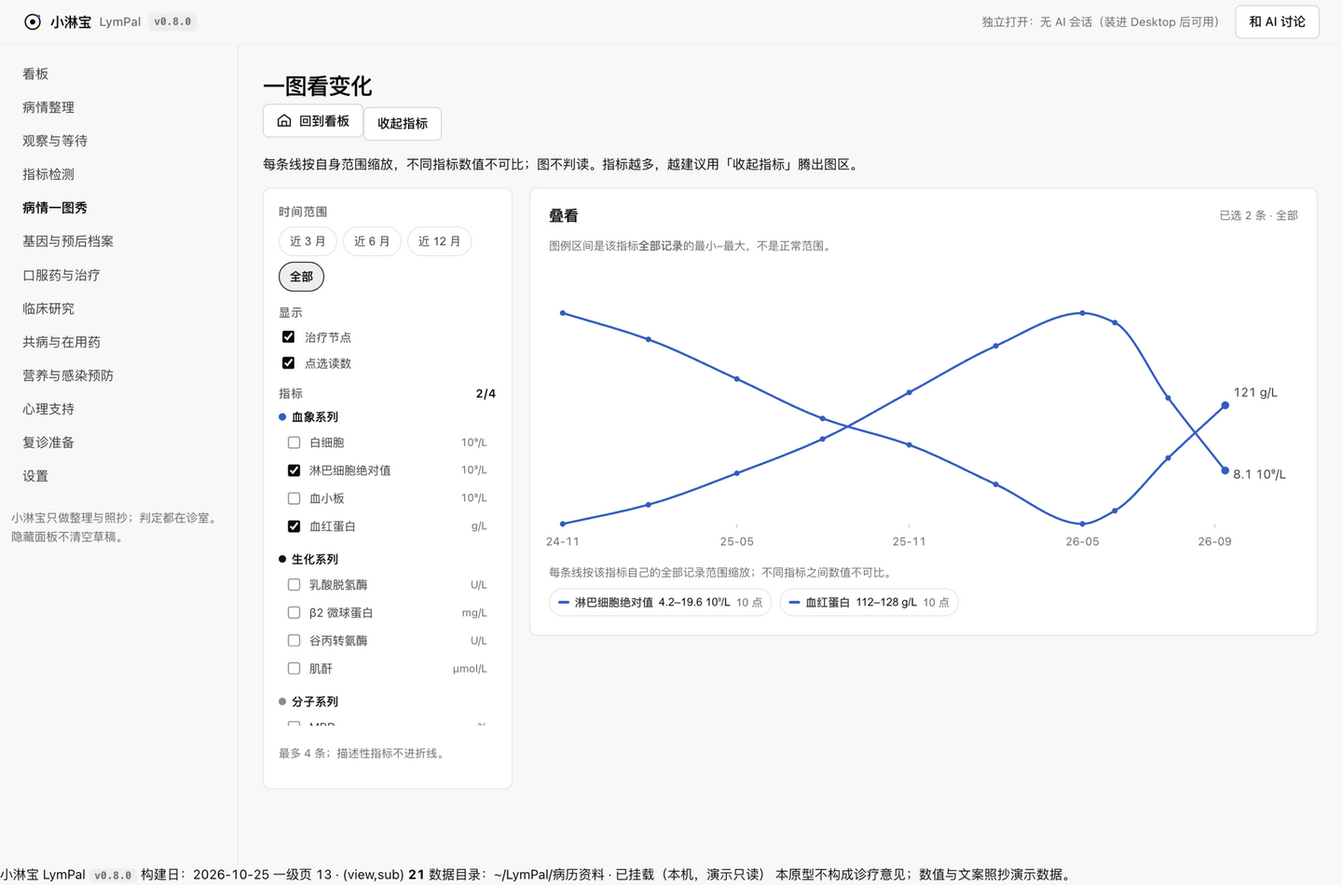
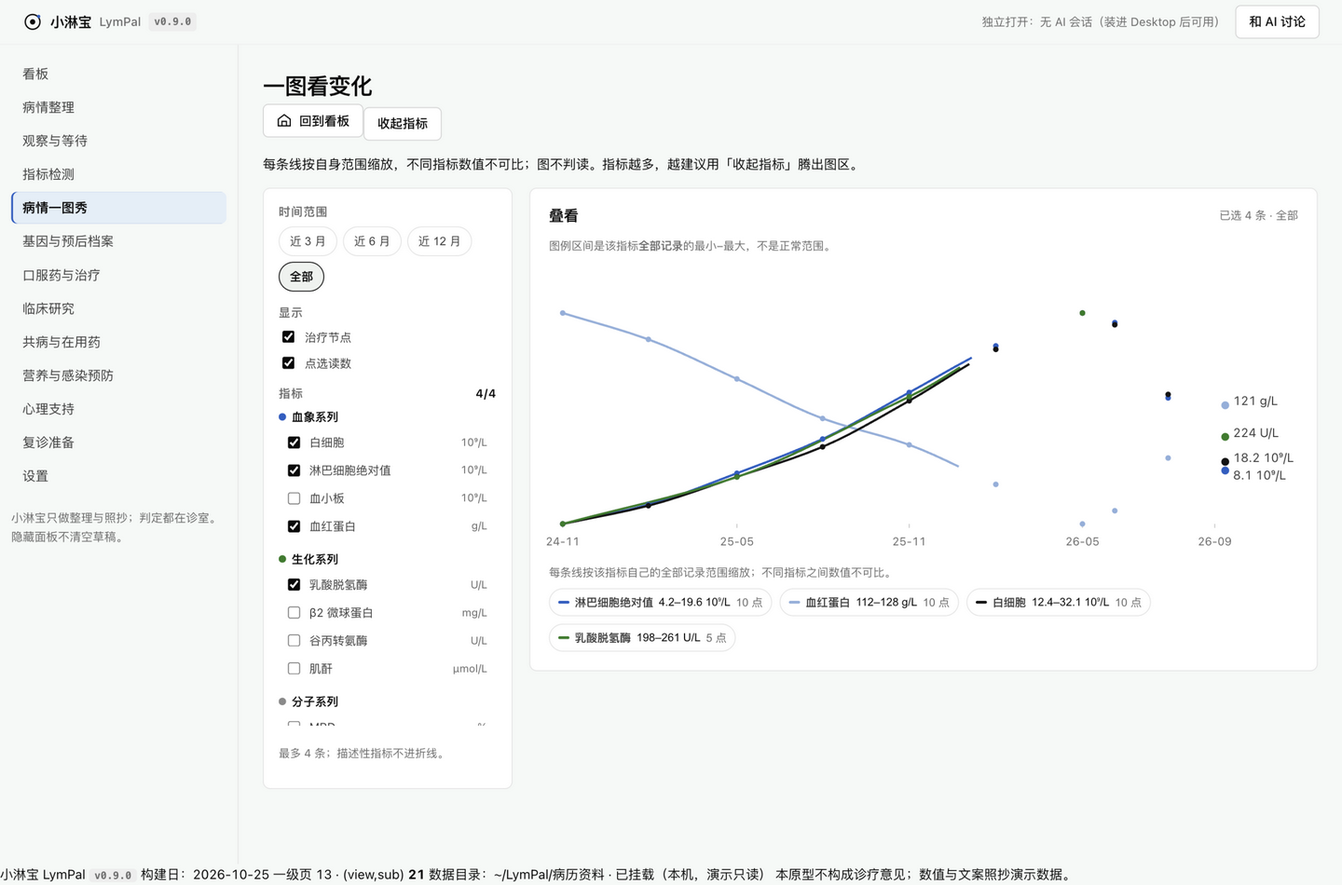
feat(ui): v0.9.1 — 双色预算（浅蓝+浅绿）+ 指标级固定色 + 末点标签避让
- 蓝=数据/选中（ground #f5f9f7、激活浅蓝 pill+2px 蓝条），绿=状态/第二序列（正向药丸浅绿）
- 修：同图两线同色（ALC/Hb 都深蓝）→ 指标级固定色，同族深浅区分，跨页一致
- 修：末点标签重叠 → 18px 最小垂直避让（实测 146/178/203/221）
- 44/44 测试 · check 全绿 · audit 37/37

diff --git a/public/app.js b/public/app.js
@@ -3,7 +3,7 @@
    红线：不判读、不建议、不代发；删除=改这一条；AI 示例只填输入框（cll:agent-draft 协议）。 */
 (function () {
   'use strict';
-  var APP_INFO = { version: '0.9.0' };
+  var APP_INFO = { version: '0.9.1' };
   var D = window.LYMPAL_DEMO;
 
   function loadProfile() {
@@ -103,15 +103,16 @@
   function cbcAll() { return D.cbc.concat(state.extra.cbc).sort(function (a, b) { return a.d < b.d ? -1 : 1; }); }
   function metrics() { /* 与一图秀共用同一目录（23 号 A：单一来源） */
     var c = cbcAll(), b = D.biochem;
+    /* 每指标固定色：蓝族（血象）与绿族（生化）内用深浅区分；同一指标在任何页同一色 */
     return [
-      { code: 'wbc', series: '血象', name: '白细胞', unit: '10⁹/L', pts: c.map(function (r) { return { d: r.d, v: r.wbc, lab: r.lab }; }) },
-      { code: 'alc', series: '血象', name: '淋巴细胞绝对值（ALC）', unit: '10⁹/L', pts: c.map(function (r) { return { d: r.d, v: r.alc, lab: r.lab }; }) },
-      { code: 'plt', series: '血象', name: '血小板', unit: '10⁹/L', pts: c.map(function (r) { return { d: r.d, v: r.plt, lab: r.lab }; }) },
-      { code: 'hgb', series: '血象', name: '血红蛋白', unit: 'g/L', pts: c.map(function (r) { return { d: r.d, v: r.hgb, lab: r.lab }; }) },
-      { code: 'ldh', series: '生化', name: '乳酸脱氢酶（LDH）', unit: 'U/L', pts: b.map(function (r) { return { d: r.d, v: r.ldh, lab: r.lab }; }) },
-      { code: 'b2m', series: '生化', name: 'β2 微球蛋白', unit: 'mg/L', pts: b.map(function (r) { return { d: r.d, v: r.b2m, lab: r.lab }; }) },
-      { code: 'alt', series: '生化', name: '谷丙转氨酶（ALT）', unit: 'U/L', pts: b.map(function (r) { return { d: r.d, v: r.alt, lab: r.lab }; }) },
-      { code: 'crea', series: '生化', name: '肌酐', unit: 'μmol/L', pts: b.map(function (r) { return { d: r.d, v: r.crea, lab: r.lab }; }) },
+      { code: 'wbc', series: '血象', color: '#141414', name: '白细胞', unit: '10⁹/L', pts: c.map(function (r) { return { d: r.d, v: r.wbc, lab: r.lab }; }) },
+      { code: 'alc', series: '血象', color: '#1d5fbf', name: '淋巴细胞绝对值（ALC）', unit: '10⁹/L', pts: c.map(function (r) { return { d: r.d, v: r.alc, lab: r.lab }; }) },
+      { code: 'plt', series: '血象', color: '#5b8ac4', name: '血小板', unit: '10⁹/L', pts: c.map(function (r) { return { d: r.d, v: r.plt, lab: r.lab }; }) },
+      { code: 'hgb', series: '血象', color: '#8fb0d9', name: '血红蛋白', unit: 'g/L', pts: c.map(function (r) { return { d: r.d, v: r.hgb, lab: r.lab }; }) },
+      { code: 'ldh', series: '生化', color: '#2e7d32', name: '乳酸脱氢酶（LDH）', unit: 'U/L', pts: b.map(function (r) { return { d: r.d, v: r.ldh, lab: r.lab }; }) },
+      { code: 'b2m', series: '生化', color: '#5da068', name: 'β2 微球蛋白', unit: 'mg/L', pts: b.map(function (r) { return { d: r.d, v: r.b2m, lab: r.lab }; }) },
+      { code: 'alt', series: '生化', color: '#8fbc97', name: '谷丙转氨酶（ALT）', unit: 'U/L', pts: b.map(function (r) { return { d: r.d, v: r.alt, lab: r.lab }; }) },
+      { code: 'crea', series: '生化', color: '#b5cfc0', name: '肌酐', unit: 'μmol/L', pts: b.map(function (r) { return { d: r.d, v: r.crea, lab: r.lab }; }) },
       { code: 'mrd', series: '分子', name: 'MRD（流式）', unit: '%', pts: D.mrdSeries.map(function (m) { return { d: m.d, v: m.v, lab: m.lab }; }) },
       { code: 'exam', series: '体格', name: '淋巴结与脾脏评估', unit: '', qual: true, pts: D.exam.map(function (r) { return { d: r.d, v: null, text: r.text, lab: r.lab }; }) }
     ];
@@ -174,8 +175,10 @@
   var CHART_W = 760, CHART_H = 300, PAD = { l: 14, r: 74, t: 26, b: 34 };
   /* achromatic-ledger：全屏只有一个彩色，给"主数据元素"。血象是本病种的主线 → 取 #1d5fbf；
      其余序列用墨色与灰阶（不引入第二、第三个色相）。 */
-  var SERIES_COLORS = { '血象': '#1d5fbf', '生化': '#141414', '分子': '#8a8a8a', '体格': '#6b6b6b' };
-  var SERIES_SOFT = { '血象': '#f4f7fc', '生化': '#f5f5f5', '分子': '#f7f7f7', '体格': '#f7f7f7' };
+  /* 双色预算：蓝=血象（主），绿=生化（次）；分子/体格保持灰阶。
+     屏幕上永远只有蓝绿两族彩色，其余中性。 */
+  var SERIES_COLORS = { '血象': '#1d5fbf', '生化': '#2e7d32', '分子': '#8a8a8a', '体格': '#6b6b6b' };
+  var SERIES_SOFT = { '血象': '#e6f0fa', '生化': '#e6f4ec', '分子': '#f7f7f7', '体格': '#f7f7f7' };
 
   function timeRange(range, anchorD) {
     var months = { '3m': 3, '6m': 6, '12m': 12 }[range] || 0;
@@ -209,7 +212,7 @@
       return PAD.l + (days(t0, d) / span) * (CHART_W - PAD.l - PAD.r);
     };
     var picked = codes.map(metricByCode).filter(Boolean);
-    var drawn = [], msgs = [], paths = [], dots = '', labels = '';
+    var drawn = [], msgs = [], paths = [], dots = '', labels = '', endLabels = [];
     var plotTop = PAD.t + (showTx ? 26 : 6), plotBottom = CHART_H - PAD.b, plotH = plotBottom - plotTop;
 
     picked.forEach(function (m, si) {
@@ -219,7 +222,7 @@
       var pts = m.pts.filter(function (p) { return typeof p.v === 'number' && p.d >= t0 && p.d <= t1; });
       if (!pts.length) { msgs.push(esc(mShort(m)) + '：这个时间窗里没有记录'); return; }
       var y = function (v) { return plotTop + (1 - (v - scale.lo) / scale.span) * plotH; };
-      var col = SERIES_COLORS[m.series] || '#2f5fa8';
+      var col = m.color || SERIES_COLORS[m.series] || '#1d5fbf';
       var xy = pts.map(function (p) { return [x(p.d), y(p.v)]; });
       if (xy.length > 1) paths.push({ code: m.code, d: smoothPath(xy), col: col });
       pts.forEach(function (p, i) {
@@ -231,12 +234,25 @@
           esc(mShort(m)) + '：' + p.v + ' ' + esc(m.unit) + ' · ' + p.d + '</title></circle>';
         if (isLast && xy.length > 1) {
           var lx = x(p.d), anchor = (CHART_W - lx) < 60 ? 'end' : 'start';
-          labels += '<text class="lbl" x="' + r2(lx + (anchor === 'end' ? -8 : 8)) + '" y="' + r2(y(p.v) + (si % 2 ? -12 : 8) + si * 3) +
-            '" text-anchor="' + anchor + '" fill="' + col + '">' + p.v + ' ' + esc(m.unit) + '</text>';
+          endLabels.push({ lx: lx, y: y(p.v), anchor: anchor, col: col,
+            text: p.v + ' ' + (m.unit || '') });
         }
       });
       drawn.push({ m: m, lo: scale.lo, hi: scale.hi, n: pts.length, col: col });
     });
+
+    /* 末点标签：按 y 排序后做最小 18px 垂直避让（多条线收在同一侧时不叠） */
+    endLabels.sort(function (a, b) { return a.y - b.y; });
+    var lastY = -Infinity;
+    endLabels.forEach(function (L, i) {
+      var yy = Math.max(L.y, lastY + 18);
+      if (i > 0 && yy === L.y) yy = L.y;
+      lastY = yy; L.yy = yy;
+    });
+    labels = endLabels.map(function (L) {
+      return '<text class="lbl" x="' + r2(L.lx + (L.anchor === 'end' ? -8 : 8)) + '" y="' + r2(L.yy) +
+        '" text-anchor="' + L.anchor + '" fill="' + L.col + '">' + esc(L.text) + '</text>';
+    }).join('');
 
     /* 治疗条：绘图区上方独立泳道（关掉后数据坐标不变） */
     var tx = '';
@@ -304,6 +320,12 @@
   function mShort(m) { return m.name.replace(/（.*?）/g, ''); }
 
   /* ================= 指标卡（固定尺寸原位翻转；正面=色点+当前值+较前次箭头+记录数；背面=sparkline 带端值日期） ================= */
+  function mixSoft(hex) {
+    var m = /^#?([0-9a-f]{6})$/i.exec(hex || '');
+    if (!m) return '#f2f4f8';
+    var n = parseInt(m[1], 16), r = (n >> 16) & 255, g = (n >> 8) & 255, b = n & 255;
+    return 'rgba(' + r + ',' + g + ',' + b + ',0.08)';
+  }
   function deltaOf(m) {
     if (m.qual) return null;
     var pts = m.pts.filter(function (p) { return typeof p.v === 'number'; });
@@ -338,8 +360,8 @@
     var nums = m.pts.filter(function (p) { return typeof p.v === 'number'; });
     var latest = nums[nums.length - 1] || null;
     var dl = deltaOf(m);
-    var col = SERIES_COLORS[m.series] || '#2f5fa8';
-    var soft = SERIES_SOFT[m.series] || '#f2f4f8';
+    var col = m.color || SERIES_COLORS[m.series] || '#1d5fbf';
+    var soft = m.color ? mixSoft(m.color) : (SERIES_SOFT[m.series] || '#f2f4f8');
 
     var arrow = '';
     if (m.qual) arrow = '<span class="mdelta flat">描述性，不进折线</span>';

diff --git a/prototypes/v0.1/app.js b/prototypes/v0.1/app.js
@@ -78,15 +78,16 @@
   function cbcAll() { return D.cbc.concat(state.extra.cbc).sort(function (a, b) { return a.d < b.d ? -1 : 1; }); }
   function metrics() { /* 与一图秀共用同一目录（23 号 A：单一来源） */
     var c = cbcAll(), b = D.biochem;
+    /* 每指标固定色：蓝族（血象）与绿族（生化）内用深浅区分；同一指标在任何页同一色 */
     return [
-      { code: 'wbc', series: '血象', name: '白细胞', unit: '10⁹/L', pts: c.map(function (r) { return { d: r.d, v: r.wbc, lab: r.lab }; }) },
-      { code: 'alc', series: '血象', name: '淋巴细胞绝对值（ALC）', unit: '10⁹/L', pts: c.map(function (r) { return { d: r.d, v: r.alc, lab: r.lab }; }) },
-      { code: 'plt', series: '血象', name: '血小板', unit: '10⁹/L', pts: c.map(function (r) { return { d: r.d, v: r.plt, lab: r.lab }; }) },
-      { code: 'hgb', series: '血象', name: '血红蛋白', unit: 'g/L', pts: c.map(function (r) { return { d: r.d, v: r.hgb, lab: r.lab }; }) },
-      { code: 'ldh', series: '生化', name: '乳酸脱氢酶（LDH）', unit: 'U/L', pts: b.map(function (r) { return { d: r.d, v: r.ldh, lab: r.lab }; }) },
-      { code: 'b2m', series: '生化', name: 'β2 微球蛋白', unit: 'mg/L', pts: b.map(function (r) { return { d: r.d, v: r.b2m, lab: r.lab }; }) },
-      { code: 'alt', series: '生化', name: '谷丙转氨酶（ALT）', unit: 'U/L', pts: b.map(function (r) { return { d: r.d, v: r.alt, lab: r.lab }; }) },
-      { code: 'crea', series: '生化', name: '肌酐', unit: 'μmol/L', pts: b.map(function (r) { return { d: r.d, v: r.crea, lab: r.lab }; }) },
+      { code: 'wbc', series: '血象', color: '#141414', name: '白细胞', unit: '10⁹/L', pts: c.map(function (r) { return { d: r.d, v: r.wbc, lab: r.lab }; }) },
+      { code: 'alc', series: '血象', color: '#1d5fbf', name: '淋巴细胞绝对值（ALC）', unit: '10⁹/L', pts: c.map(function (r) { return { d: r.d, v: r.alc, lab: r.lab }; }) },
+      { code: 'plt', series: '血象', color: '#5b8ac4', name: '血小板', unit: '10⁹/L', pts: c.map(function (r) { return { d: r.d, v: r.plt, lab: r.lab }; }) },
+      { code: 'hgb', series: '血象', color: '#8fb0d9', name: '血红蛋白', unit: 'g/L', pts: c.map(function (r) { return { d: r.d, v: r.hgb, lab: r.lab }; }) },
+      { code: 'ldh', series: '生化', color: '#2e7d32', name: '乳酸脱氢酶（LDH）', unit: 'U/L', pts: b.map(function (r) { return { d: r.d, v: r.ldh, lab: r.lab }; }) },
+      { code: 'b2m', series: '生化', color: '#5da068', name: 'β2 微球蛋白', unit: 'mg/L', pts: b.map(function (r) { return { d: r.d, v: r.b2m, lab: r.lab }; }) },
+      { code: 'alt', series: '生化', color: '#8fbc97', name: '谷丙转氨酶（ALT）', unit: 'U/L', pts: b.map(function (r) { return { d: r.d, v: r.alt, lab: r.lab }; }) },
+      { code: 'crea', series: '生化', color: '#b5cfc0', name: '肌酐', unit: 'μmol/L', pts: b.map(function (r) { return { d: r.d, v: r.crea, lab: r.lab }; }) },
       { code: 'mrd', series: '分子', name: 'MRD（流式）', unit: '%', pts: D.mrdSeries.map(function (m) { return { d: m.d, v: m.v, lab: m.lab }; }) },
       { code: 'exam', series: '体格', name: '淋巴结与脾脏评估', unit: '', qual: true, pts: D.exam.map(function (r) { return { d: r.d, v: null, text: r.text, lab: r.lab }; }) }
     ];
@@ -149,8 +150,10 @@
   var CHART_W = 760, CHART_H = 300, PAD = { l: 14, r: 74, t: 26, b: 34 };
   /* achromatic-ledger：全屏只有一个彩色，给"主数据元素"。血象是本病种的主线 → 取 #1d5fbf；
      其余序列用墨色与灰阶（不引入第二、第三个色相）。 */
-  var SERIES_COLORS = { '血象': '#1d5fbf', '生化': '#141414', '分子': '#8a8a8a', '体格': '#6b6b6b' };
-  var SERIES_SOFT = { '血象': '#f4f7fc', '生化': '#f5f5f5', '分子': '#f7f7f7', '体格': '#f7f7f7' };
+  /* 双色预算：蓝=血象（主），绿=生化（次）；分子/体格保持灰阶。
+     屏幕上永远只有蓝绿两族彩色，其余中性。 */
+  var SERIES_COLORS = { '血象': '#1d5fbf', '生化': '#2e7d32', '分子': '#8a8a8a', '体格': '#6b6b6b' };
+  var SERIES_SOFT = { '血象': '#e6f0fa', '生化': '#e6f4ec', '分子': '#f7f7f7', '体格': '#f7f7f7' };
 
   function timeRange(range, anchorD) {
     var months = { '3m': 3, '6m': 6, '12m': 12 }[range] || 0;
@@ -184,7 +187,7 @@
       return PAD.l + (days(t0, d) / span) * (CHART_W - PAD.l - PAD.r);
     };
     var picked = codes.map(metricByCode).filter(Boolean);
-    var drawn = [], msgs = [], paths = [], dots = '', labels = '';
+    var drawn = [], msgs = [], paths = [], dots = '', labels = '', endLabels = [];
     var plotTop = PAD.t + (showTx ? 26 : 6), plotBottom = CHART_H - PAD.b, plotH = plotBottom - plotTop;
 
     picked.forEach(function (m, si) {
@@ -194,7 +197,7 @@
       var pts = m.pts.filter(function (p) { return typeof p.v === 'number' && p.d >= t0 && p.d <= t1; });
       if (!pts.length) { msgs.push(esc(mShort(m)) + '：这个时间窗里没有记录'); return; }
       var y = function (v) { return plotTop + (1 - (v - scale.lo) / scale.span) * plotH; };
-      var col = SERIES_COLORS[m.series] || '#2f5fa8';
+      var col = m.color || SERIES_COLORS[m.series] || '#1d5fbf';
       var xy = pts.map(function (p) { return [x(p.d), y(p.v)]; });
       if (xy.length > 1) paths.push({ code: m.code, d: smoothPath(xy), col: col });
       pts.forEach(function (p, i) {
@@ -206,12 +209,25 @@
           esc(mShort(m)) + '：' + p.v + ' ' + esc(m.unit) + ' · ' + p.d + '</title></circle>';
         if (isLast && xy.length > 1) {
           var lx = x(p.d), anchor = (CHART_W - lx) < 60 ? 'end' : 'start';
-          labels += '<text class="lbl" x="' + r2(lx + (anchor === 'end' ? -8 : 8)) + '" y="' + r2(y(p.v) + (si % 2 ? -12 : 8) + si * 3) +
-            '" text-anchor="' + anchor + '" fill="' + col + '">' + p.v + ' ' + esc(m.unit) + '</text>';
+          endLabels.push({ lx: lx, y: y(p.v), anchor: anchor, col: col,
+            text: p.v + ' ' + (m.unit || '') });
         }
       });
       drawn.push({ m: m, lo: scale.lo, hi: scale.hi, n: pts.length, col: col });
     });
+
+    /* 末点标签：按 y 排序后做最小 18px 垂直避让（多条线收在同一侧时不叠） */
+    endLabels.sort(function (a, b) { return a.y - b.y; });
+    var lastY = -Infinity;
+    endLabels.forEach(function (L, i) {
+      var yy = Math.max(L.y, lastY + 18);
+      if (i > 0 && yy === L.y) yy = L.y;
+      lastY = yy; L.yy = yy;
+    });
+    labels = endLabels.map(function (L) {
+      return '<text class="lbl" x="' + r2(L.lx + (L.anchor === 'end' ? -8 : 8)) + '" y="' + r2(L.yy) +
+        '" text-anchor="' + L.anchor + '" fill="' + L.col + '">' + esc(L.text) + '</text>';
+    }).join('');
 
     /* 治疗条：绘图区上方独立泳道（关掉后数据坐标不变） */
     var tx = '';
@@ -279,6 +295,12 @@
   function mShort(m) { return m.name.replace(/（.*?）/g, ''); }
 
   /* ================= 指标卡（固定尺寸原位翻转；正面=色点+当前值+较前次箭头+记录数；背面=sparkline 带端值日期） ================= */
+  function mixSoft(hex) {
+    var m = /^#?([0-9a-f]{6})$/i.exec(hex || '');
+    if (!m) return '#f2f4f8';
+    var n = parseInt(m[1], 16), r = (n >> 16) & 255, g = (n >> 8) & 255, b = n & 255;
+    return 'rgba(' + r + ',' + g + ',' + b + ',0.08)';
+  }
   function deltaOf(m) {
     if (m.qual) return null;
     var pts = m.pts.filter(function (p) { return typeof p.v === 'number'; });
@@ -313,8 +335,8 @@
     var nums = m.pts.filter(function (p) { return typeof p.v === 'number'; });
     var latest = nums[nums.length - 1] || null;
     var dl = deltaOf(m);
-    var col = SERIES_COLORS[m.series] || '#2f5fa8';
-    var soft = SERIES_SOFT[m.series] || '#f2f4f8';
+    var col = m.color || SERIES_COLORS[m.series] || '#1d5fbf';
+    var soft = m.color ? mixSoft(m.color) : (SERIES_SOFT[m.series] || '#f2f4f8');
 
     var arrow = '';
     if (m.qual) arrow = '<span class="mdelta flat">描述性，不进折线</span>';

diff --git a/prototypes/v0.1/style.css b/prototypes/v0.1/style.css
@@ -8,14 +8,19 @@
      规则：chrome 不含任何彩色；唯一的图表色 #1d5fbf 只给"主数据元素"；其余用墨色与灰阶。
      彩色像素目标 <1%。字体：系统 SF Pro（离线可用；本机无 Geist，且病历应用不依赖网络字体），
      数字用 SF Mono + tabular-nums，让化验值成列对齐（该样式的"账本"取向）。 */
-  --ground:#f8f8f8; --surface:#ffffff; --raised:#eeeeee; --active:#eeeeee;
+  /* 双色预算（用户 2026-10-26 指定浅绿+浅蓝）：
+     蓝 = 数据与选中；绿 = 状态（符合/正常）。底色带一丝蓝绿的白，卡面仍纯白。
+     除这两族外仍保持中性，避免回到彩虹图表。 */
+  --ground:#f5f9f7; --surface:#ffffff; --raised:#eef2ef; --active:#e3eef7;
   --border:#e6e6e6; --rule:#f0f0f0; --control:#d4d4d4;
   --text:#0a0a0a; --muted:#6b6b6b; --faint:#8a8a8a;
   --accent:#141414;                 /* chrome 的"强调"= 墨色本身 */
-  --chart-hue:#1d5fbf;              /* 唯一图表色：主数据线 */
+  --chart-hue:#1d5fbf;              /* 蓝：主数据线（血象） */
+  --hue-green:#2e7d32;              /* 绿：第二序列（生化）与正向状态 */
   --chart-ink:#141414; --chart-grey:#8a8a8a;
+  --soft-blue:#e6f0fa; --soft-green:#e6f4ec;
   --positive:#2e7d32; --negative:#c4242a; --warning:#92400e;
-  --pill-positive-bg:#dcfae5; --pill-positive-ink:#04250e;
+  --pill-positive-bg:#e6f4ec; --pill-positive-ink:#1c5c34;
   --pill-negative-bg:#ffedea; --pill-negative-ink:#831c1e;
   --pill-warning-bg:#fffbeb; --pill-warning-ink:#92400e; --pill-warning-border:#fde68a;
   --pill-neutral-bg:#eeeeee; --pill-neutral-ink:#3d3d3d;
@@ -98,7 +103,7 @@ h1{font-size:var(--fs-title); font-weight:700; letter-spacing:-.02em; line-heigh
 }
 .sidebar a:hover{background:#f0f1f2}
 /* 导航退到后面：激活项只用中性灰 pill，不用品牌色和左侧色条 */
-.sidebar a[aria-current="page"]{color:var(--ink); font-weight:600; background:var(--active)}
+.sidebar a[aria-current="page"]{color:var(--ink); font-weight:600; background:var(--active); box-shadow:inset 2px 0 0 var(--chart-hue)}
 .nav-note{margin-top:auto; padding-top:18px; font-size:12.5px; color:var(--muted)}
 .main-col{min-width:0; display:flex}
 #view{max-width:1180px; width:100%; margin:0 auto; padding:var(--pad) var(--pad) 48px; outline:none}

diff --git a/public/style.css b/public/style.css
@@ -8,14 +8,19 @@
      规则：chrome 不含任何彩色；唯一的图表色 #1d5fbf 只给"主数据元素"；其余用墨色与灰阶。
      彩色像素目标 <1%。字体：系统 SF Pro（离线可用；本机无 Geist，且病历应用不依赖网络字体），
      数字用 SF Mono + tabular-nums，让化验值成列对齐（该样式的"账本"取向）。 */
-  --ground:#f8f8f8; --surface:#ffffff; --raised:#eeeeee; --active:#eeeeee;
+  /* 双色预算（用户 2026-10-26 指定浅绿+浅蓝）：
+     蓝 = 数据与选中；绿 = 状态（符合/正常）。底色带一丝蓝绿的白，卡面仍纯白。
+     除这两族外仍保持中性，避免回到彩虹图表。 */
+  --ground:#f5f9f7; --surface:#ffffff; --raised:#eef2ef; --active:#e3eef7;
   --border:#e6e6e6; --rule:#f0f0f0; --control:#d4d4d4;
   --text:#0a0a0a; --muted:#6b6b6b; --faint:#8a8a8a;
   --accent:#141414;                 /* chrome 的"强调"= 墨色本身 */
-  --chart-hue:#1d5fbf;              /* 唯一图表色：主数据线 */
+  --chart-hue:#1d5fbf;              /* 蓝：主数据线（血象） */
+  --hue-green:#2e7d32;              /* 绿：第二序列（生化）与正向状态 */
   --chart-ink:#141414; --chart-grey:#8a8a8a;
+  --soft-blue:#e6f0fa; --soft-green:#e6f4ec;
   --positive:#2e7d32; --negative:#c4242a; --warning:#92400e;
-  --pill-positive-bg:#dcfae5; --pill-positive-ink:#04250e;
+  --pill-positive-bg:#e6f4ec; --pill-positive-ink:#1c5c34;
   --pill-negative-bg:#ffedea; --pill-negative-ink:#831c1e;
   --pill-warning-bg:#fffbeb; --pill-warning-ink:#92400e; --pill-warning-border:#fde68a;
   --pill-neutral-bg:#eeeeee; --pill-neutral-ink:#3d3d3d;
@@ -98,7 +103,7 @@ h1{font-size:var(--fs-title); font-weight:700; letter-spacing:-.02em; line-heigh
 }
 .sidebar a:hover{background:#f0f1f2}
 /* 导航退到后面：激活项只用中性灰 pill，不用品牌色和左侧色条 */
-.sidebar a[aria-current="page"]{color:var(--ink); font-weight:600; background:var(--active)}
+.sidebar a[aria-current="page"]{color:var(--ink); font-weight:600; background:var(--active); box-shadow:inset 2px 0 0 var(--chart-hue)}
 .nav-note{margin-top:auto; padding-top:18px; font-size:12.5px; color:var(--muted)}
 .main-col{min-width:0; display:flex}
 #view{max-width:1180px; width:100%; margin:0 auto; padding:var(--pad) var(--pad) 48px; outline:none}

diff --git a/prototypes/v0.1/index.html b/prototypes/v0.1/index.html
@@ -3,7 +3,7 @@
 <head>
 <meta charset="utf-8">
 <meta name="viewport" content="width=device-width,initial-scale=1">
-<title>小淋宝 LymPal · CLL/SLL 患者工作台 v0.9.0</title>
+<title>小淋宝 LymPal · CLL/SLL 患者工作台 v0.9.1</title>
 <link rel="stylesheet" href="style.css?v=0.9.0">
 </head>
 <body>
@@ -21,7 +21,7 @@
     </svg>
     <span class="brand-word">小淋宝</span>
     <span class="brand-latin">LymPal</span>
-    <span class="ver">v0.9.0</span>
+    <span class="ver">v0.9.1</span>
   </a>
   <div class="topbar-right">
     <span class="conn" id="agent-note">AI 对话在右侧原生会话</span>
@@ -60,7 +60,7 @@
 
 <!-- 页脚贴底：flex column + min-height:100vh；版本 + (view,sub) 计数常显 -->
 <footer class="footer">
-  <span>小淋宝 LymPal <b class="ver">v0.9.0</b></span>
+  <span>小淋宝 LymPal <b class="ver">v0.9.1</b></span>
   <span>构建日：2026-10-25</span>
   <span>一级页 13 · (view,sub) <b id="view-sub-count">19</b></span>
   <span>数据目录：~/LymPal/病历资料 · 已挂载（本机，演示只读）</span>

diff --git a/public/index.html b/public/index.html
@@ -3,7 +3,7 @@
 <head>
 <meta charset="utf-8">
 <meta name="viewport" content="width=device-width,initial-scale=1">
-<title>小淋宝 LymPal · CLL/SLL 患者工作台 v0.9.0</title>
+<title>小淋宝 LymPal · CLL/SLL 患者工作台 v0.9.1</title>
 <link rel="stylesheet" href="style.css?v=0.9.0">
 </head>
 <body>
@@ -21,7 +21,7 @@
     </svg>
     <span class="brand-word">小淋宝</span>
     <span class="brand-latin">LymPal</span>
-    <span class="ver">v0.9.0</span>
+    <span class="ver">v0.9.1</span>
   </a>
   <div class="topbar-right">
     <span class="conn" id="agent-note">AI 对话在右侧原生会话</span>
@@ -60,7 +60,7 @@
 
 <!-- 页脚贴底：flex column + min-height:100vh；版本 + (view,sub) 计数常显 -->
 <footer class="footer">
-  <span>小淋宝 LymPal <b class="ver">v0.9.0</b></span>
+  <span>小淋宝 LymPal <b class="ver">v0.9.1</b></span>
   <span>构建日：2026-10-25</span>
   <span>一级页 13 · (view,sub) <b id="view-sub-count">19</b></span>
   <span>数据目录：~/LymPal/病历资料 · 已挂载（本机，演示只读）</span>

diff --git a/lib/version.js b/lib/version.js
@@ -1,9 +1,9 @@
 // 本文件由 scripts/build-version.mjs 生成，请勿手改。
 // 唯一来源：仓库根目录的 VERSION。改版本先改 VERSION，再跑 npm run build:version。
-export const version = '0.9.0'
+export const version = '0.9.1'
 export const build = '2026-10-26'
 export const channel = 'beta'
-export const commit = '0455d8a'
+export const commit = 'd9ab56d'
 
 export const displayVersion = `v${version}`
 export const channelLabel = '测试版 · 数据仅在本机'

diff --git a/lib/client.js b/lib/client.js
@@ -50,7 +50,7 @@
 
       const UI_ENTRY = '/api/cll/ui/'
       const API_PREFIX = '/api/cll'
-      const VERSION = '0.9.0'
+      const VERSION = '0.9.1'
       const TITLE = '小淋宝 LymPal'
       const PANEL_TITLE = '小淋宝 LymPal 工作台'
       const SUBTITLE = '本机数据 · 记录不是诊断'

diff --git a/CHANGELOG.md b/CHANGELOG.md
@@ -1,3 +1,24 @@
+## v0.9.1 · 2026-10-26（包版本 0.9.1）
+
+按用户意见把配色从"全无彩色"调成**双色预算**：浅蓝 + 浅绿都进来，但各管一摊。
+
+### 双色预算
+- **蓝族 = 数据与选中**：底色带一丝蓝绿的白（`#f5f9f7`），导航激活项浅蓝 pill + 左侧 2px 蓝条，血象系用蓝。
+- **绿族 = 状态与第二序列**：正向药丸浅绿底（`#e6f4ec/#1c5c34`），生化系用绿。
+- 分子/体格仍为灰阶。全屏彩色不超过蓝、绿两族（taste 色相预算内，不再是无彩色的"账本灰"）。
+
+### 修掉两个视觉缺陷
+1. **同图两线同色**：ALC 与 Hb 同属血象系，之前都画深蓝，叠在一张图上分不清。改为**指标级固定色**——
+   同族内用深浅区分（ALC 深蓝 / Hb 中蓝 / 血小板更浅），同一指标在任何页永远同一色。
+2. **末点标签重叠**：四条线的右侧数值标签挤成一团。加 18px 最小垂直避让（实测间距 146/178/203/221）。
+
+### 验证
+- 实测四线四色：`#1d5fbf / #8fb0d9 / #141414 / #2e7d32`，minGap 18px。
+- test 44/44（配色守卫更新为双色预算：ground/chart-hue/hue-green/soft-blue/soft-green）；check 全绿。
+
+### 未完成（如实）
+- 真机发送与人眼走查仍待确认；一手访谈 0。
+
 ## v0.9.0 · 2026-10-26（包版本 0.9.0）
 
 按用户反馈重做视觉：补标识（之前没有 logo），配色与字体按 `design-taste-frontend` 的发牌结果重来。
